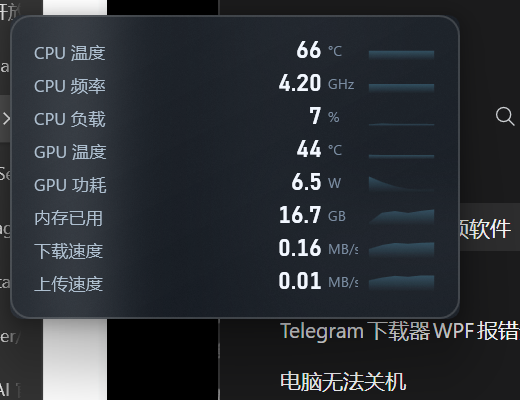
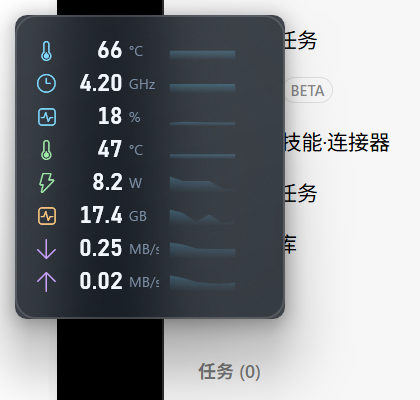
feat: 文字标签改为图标，面板宽度收窄 (v1.2.0)
- 新增 Sensors/Icons.cs 与 MetricSpec.Icon：按子分组/键映射 Segoe Fluent Icons 字形
- 新增 Ui/GroupPalette.cs：按分组（CPU/显卡/内存/网络/主板/硬盘/风扇）配色
- 面板两个模板用图标代替文字标签，按分组着色，行内 ToolTip 显示完整名称
- 设置面板参数列表同步显示彩色图标
- 默认窗口宽度 300 → 180，竖排最小宽度 236 → 148，横排间距收紧
- AppSettings 新增 IconsApplied：老配置升级后只收窄一次
- docs 截图、README、版本号更新到 1.2.0

diff --git a/src/Ui/MainWindow.xaml b/src/Ui/MainWindow.xaml
@@ -19,11 +19,13 @@
 
     <Window.Resources>
         <sys:Double x:Key="LabelSize">11.5</sys:Double>
+        <sys:Double x:Key="IconSize">13</sys:Double>
+        <sys:Double x:Key="IconColumnWidth">17</sys:Double>
         <sys:Double x:Key="ValueSize">16</sys:Double>
         <sys:Double x:Key="UnitSize">9.5</sys:Double>
         <sys:Double x:Key="FooterSize">9.5</sys:Double>
         <sys:Double x:Key="RowHeight">22</sys:Double>
-        <GridLength x:Key="ValueColumnWidth">48</GridLength>
+        <GridLength x:Key="ValueColumnWidth">40</GridLength>
         <GridLength x:Key="UnitColumnWidth">24</GridLength>
         <sys:Double x:Key="SparkWidth">46</sys:Double>
         <sys:Double x:Key="SparkWidthH">30</sys:Double>
@@ -31,19 +33,22 @@
         <BooleanToVisibilityConverter x:Key="BoolToVis" />
 
         <DataTemplate x:Key="MetricRowTemplate" DataType="{x:Type ui:MetricRow}">
-            <Grid Height="{DynamicResource RowHeight}">
+            <Grid Height="{DynamicResource RowHeight}" ToolTip="{Binding Tooltip}">
                 <Grid.ColumnDefinitions>
-                    <ColumnDefinition Width="*" />
+                    <ColumnDefinition Width="Auto" />
                     <ColumnDefinition Width="{DynamicResource ValueColumnWidth}" />
                     <ColumnDefinition Width="{DynamicResource UnitColumnWidth}" />
                     <ColumnDefinition Width="Auto" />
+                    <ColumnDefinition Width="*" />
                 </Grid.ColumnDefinitions>
 
-                <TextBlock Text="{Binding Label}"
-                           FontSize="{DynamicResource LabelSize}"
-                           Foreground="{DynamicResource TextSecondaryBrush}"
-                           VerticalAlignment="Center" TextTrimming="CharacterEllipsis"
-                           Margin="0,0,10,0" />
+                <!-- 图标代替文字标签：省横向空间 -->
+                <TextBlock Text="{Binding Icon}"
+                           FontFamily="{DynamicResource IconFont}"
+                           FontSize="{DynamicResource IconSize}"
+                           Foreground="{Binding IconBrush}"
+                           VerticalAlignment="Center" HorizontalAlignment="Center"
+                           Width="{DynamicResource IconColumnWidth}" />
 
                 <TextBlock Grid.Column="1"
                            Text="{Binding ValueText}"
@@ -72,13 +77,15 @@
             </Grid>
         </DataTemplate>
 
-        <!-- 横向排列用的紧凑模板：标签 值 单位 挤在一行 -->
+        <!-- 横向排列用的紧凑模板：图标 值 单位 挤在一行 -->
         <DataTemplate x:Key="MetricRowTemplateH" DataType="{x:Type ui:MetricRow}">
-            <StackPanel Orientation="Horizontal" Height="{DynamicResource RowHeight}" Margin="0,0,14,0">
-                <TextBlock Text="{Binding Label}"
-                           FontSize="{DynamicResource LabelSize}"
-                           Foreground="{DynamicResource TextSecondaryBrush}"
-                           VerticalAlignment="Center" Margin="0,0,6,1" />
+            <StackPanel Orientation="Horizontal" Height="{DynamicResource RowHeight}" Margin="0,0,12,0"
+                        ToolTip="{Binding Tooltip}">
+                <TextBlock Text="{Binding Icon}"
+                           FontFamily="{DynamicResource IconFont}"
+                           FontSize="{DynamicResource IconSize}"
+                           Foreground="{Binding IconBrush}"
+                           VerticalAlignment="Center" Margin="0,0,5,0" />
                 <TextBlock Text="{Binding ValueText}"
                            FontFamily="{DynamicResource NumFont}"
                            FontSize="{DynamicResource ValueSize}"

diff --git a/src/Ui/SettingsWindow.xaml b/src/Ui/SettingsWindow.xaml
@@ -136,11 +136,17 @@
                                 <Grid>
                                     <Grid.ColumnDefinitions>
                                         <ColumnDefinition Width="Auto" />
+                                        <ColumnDefinition Width="Auto" />
                                         <ColumnDefinition Width="*" />
                                     </Grid.ColumnDefinitions>
                                     <CheckBox IsChecked="{Binding IsSelected, Mode=TwoWay, UpdateSourceTrigger=PropertyChanged}"
                                               Style="{StaticResource GlassCheckBox}" VerticalAlignment="Center" />
-                                    <StackPanel Grid.Column="1" Margin="8,0,0,0" VerticalAlignment="Center">
+                                    <TextBlock Grid.Column="1" Text="{Binding Icon}"
+                                               FontFamily="{DynamicResource IconFont}" FontSize="12.5"
+                                               Foreground="{Binding IconBrush}"
+                                               Width="18" TextAlignment="Center"
+                                               VerticalAlignment="Center" Margin="8,0,0,0" />
+                                    <StackPanel Grid.Column="2" Margin="6,0,0,0" VerticalAlignment="Center">
                                         <TextBlock Text="{Binding Label}" FontSize="12.2"
                                                    Foreground="{DynamicResource TextPrimaryBrush}"
                                                    TextTrimming="CharacterEllipsis" />

diff --git a/src/Ui/Styles.xaml b/src/Ui/Styles.xaml
@@ -14,7 +14,7 @@
 
     <FontFamily x:Key="UiFont">Segoe UI Variable Text, Microsoft YaHei UI, Segoe UI</FontFamily>
     <FontFamily x:Key="NumFont">Bahnschrift, Segoe UI Variable Display, Segoe UI</FontFamily>
-    <FontFamily x:Key="IconFont">Segoe MDL2 Assets</FontFamily>
+    <FontFamily x:Key="IconFont">Segoe Fluent Icons, Segoe MDL2 Assets</FontFamily>
 
     <!-- ============================ 图标按钮 ============================ -->
     <Style x:Key="IconButton" TargetType="Button">

diff --git a/src/Sensors/Icons.cs b/src/Sensors/Icons.cs
@@ -1,0 +1,41 @@
+namespace CpuGlassMonitor.Sensors;
+
+/// <summary>
+/// 面板图标字形表（Segoe Fluent Icons，Win10 上自动回退到 Segoe MDL2 Assets，两者码位一致）。
+/// 用图标代替中文标签，既省横向空间也更像仪表盘。
+/// </summary>
+public static class Icons
+{
+    /// <summary>温度：温度计。</summary>
+    public const string Temperature = "\uE9CA";
+
+    /// <summary>频率：时钟表盘（时钟频率）。</summary>
+    public const string Clock = "\uED5A";
+
+    /// <summary>占用率：折线图。</summary>
+    public const string Load = "\uE9D9";
+
+    /// <summary>功耗：闪电。</summary>
+    public const string Power = "\uE945";
+
+    /// <summary>电压：滑杆。</summary>
+    public const string Voltage = "\uE9E9";
+
+    /// <summary>风扇转速：循环箭头。</summary>
+    public const string Fan = "\uE9F3";
+
+    /// <summary>容量 / 吞吐量：内存条。</summary>
+    public const string Capacity = "\uE8F1";
+
+    /// <summary>带宽 / 吞吐：折线。</summary>
+    public const string Throughput = "\uE9D2";
+
+    /// <summary>下载：向下箭头。</summary>
+    public const string Download = "\uE74B";
+
+    /// <summary>上传：向上箭头。</summary>
+    public const string Upload = "\uE74A";
+
+    /// <summary>兜底图标。</summary>
+    public const string Default = Load;
+}

diff --git a/src/Ui/MainWindow.xaml.cs b/src/Ui/MainWindow.xaml.cs
@@ -184,11 +184,11 @@ public partial class MainWindow : Window
         else
         {
             SizeToContent = SizeToContent.Height;
-            MinWidth = 236;
+            MinWidth = 148;
             MaxWidth = 640;
-            CardInner.Margin = new Thickness(15, 11, 14, 12);
+            CardInner.Margin = new Thickness(13, 11, 12, 12);
             HintText.MaxWidth = double.PositiveInfinity;
-            if (_settings.WindowWidth >= 236 && _settings.WindowWidth <= 640)
+            if (_settings.WindowWidth >= 148 && _settings.WindowWidth <= 640)
             {
                 Width = _settings.WindowWidth;
             }
@@ -221,7 +221,9 @@ public partial class MainWindow : Window
         Resources["UnitSize"] = 9.5 * s;
         Resources["FooterSize"] = 9.5 * s;
         Resources["RowHeight"] = 22.0 * s;
-        Resources["ValueColumnWidth"] = new GridLength(48.0 * s);
+        Resources["IconSize"] = 13.0 * s;
+        Resources["IconColumnWidth"] = 17.0 * s;
+        Resources["ValueColumnWidth"] = new GridLength(40.0 * s);
         Resources["UnitColumnWidth"] = new GridLength(24.0 * s);
         Resources["SparkWidth"] = _settings.ShowSparkline ? 46.0 * s : 0.0;
         Resources["SparkWidthH"] = _settings.ShowSparkline ? 30.0 * s : 0.0;

diff --git a/src/Sensors/MetricSpec.cs b/src/Sensors/MetricSpec.cs
@@ -16,6 +16,32 @@ public sealed class MetricSpec
 
     public string Unit { get; init; } = "";
 
+    /// <summary>面板上代替文字标签显示的图标字形（Segoe Fluent Icons / Segoe MDL2 Assets）。</summary>
+    public string Icon => IconFor(Key, SubGroup);
+
+    private static string IconFor(string key, string subGroup)
+    {
+        if (key == "agg.net.down") return Icons.Download;
+        if (key == "agg.net.up") return Icons.Upload;
+
+        return subGroup switch
+        {
+            "温度" => Icons.Temperature,
+            "频率" => Icons.Clock,
+            "负载" => Icons.Load,
+            "占用" => Icons.Load,
+            "功耗" => Icons.Power,
+            "能耗" => Icons.Power,
+            "电压" => Icons.Voltage,
+            "风扇" => Icons.Fan,
+            "容量" => Icons.Capacity,
+            "数据" => Icons.Capacity,
+            "带宽" => Icons.Throughput,
+            "速度" => Icons.Throughput,
+            _ => Icons.Default
+        };
+    }
+
     public double Scale { get; init; } = 1.0;
 
     public int Digits { get; init; }

diff --git a/src/Ui/MetricRow.cs b/src/Ui/MetricRow.cs
@@ -22,7 +22,9 @@ public sealed class MetricRow : INotifyPropertyChanged
         PrimaryBrush = primary;
         WarnBrush = warn;
         CritBrush = crit;
+        IconBrush = GroupPalette.For(spec.Group);
     }
+
 
     public event PropertyChangedEventHandler? PropertyChanged;
 
@@ -33,6 +35,18 @@ public sealed class MetricRow : INotifyPropertyChanged
     public string Label => Spec.Label;
 
     public string Unit => Spec.Unit;
+
+    /// <summary>代替文字标签的图标字形。</summary>
+    public string Icon => Spec.Icon;
+
+    /// <summary>按分组着色的图标笔刷（CPU 青、显卡绿、内存琥珀、网络紫）。</summary>
+    public Brush IconBrush { get; }
+
+    /// <summary>鼠标悬停时显示完整名称（图标化以后靠它认指标）。</summary>
+    public string Tooltip =>
+        string.IsNullOrEmpty(Spec.Unit)
+            ? $"{Spec.Label} · {Spec.SubGroup}"
+            : $"{Spec.Label} · {Spec.SubGroup} · {Spec.Unit}";
 
     public Brush PrimaryBrush { get; }
 

diff --git a/src/Ui/GroupPalette.cs b/src/Ui/GroupPalette.cs
@@ -1,0 +1,28 @@
+using System.Windows.Media;
+
+namespace CpuGlassMonitor.Ui;
+
+/// <summary>
+/// 分组配色。面板标签改成图标以后，同形状的图标（比如两个温度计）靠颜色区分钟是 CPU 还是显卡。
+/// </summary>
+public static class GroupPalette
+{
+    public static Brush For(string group)
+    {
+        Color color = group switch
+        {
+            "CPU" => Color.FromRgb(0x7F, 0xD9, 0xFF),
+            "显卡" => Color.FromRgb(0x9F, 0xE8, 0xA8),
+            "内存" => Color.FromRgb(0xFF, 0xC9, 0x80),
+            "网络" => Color.FromRgb(0xC9, 0xA2, 0xFF),
+            "主板" => Color.FromRgb(0xFF, 0xB4, 0xA2),
+            "硬盘" => Color.FromRgb(0xA8, 0xD8, 0xFF),
+            "风扇" => Color.FromRgb(0xC7, 0xE0, 0xF0),
+            _ => Color.FromRgb(0xAE, 0xBF, 0xCF)
+        };
+
+        var brush = new SolidColorBrush(color);
+        brush.Freeze();
+        return brush;
+    }
+}

diff --git a/src/Ui/MetricOption.cs b/src/Ui/MetricOption.cs
@@ -42,6 +42,7 @@ public sealed class MetricOption : INotifyPropertyChanged
 
         bool aggregate = spec.Key.StartsWith("agg.", StringComparison.Ordinal);
         Order = groupRank * 1_000_000 + subRank * 10_000 + (aggregate ? 0 : 5_000) + insertionIndex;
+        IconBrush = GroupPalette.For(spec.Group);
     }
 
     public event PropertyChangedEventHandler? PropertyChanged;
@@ -53,6 +54,12 @@ public sealed class MetricOption : INotifyPropertyChanged
     public string Label { get; }
 
     public string Detail { get; }
+
+    /// <summary>与面板一致的图标字形。</summary>
+    public string Icon => Spec.Icon;
+
+    /// <summary>与面板一致的图标颜色。</summary>
+    public System.Windows.Media.Brush IconBrush { get; private set; } = System.Windows.Media.Brushes.Gray;
 
     public string GroupTitle { get; }
 

diff --git a/src/App.xaml.cs b/src/App.xaml.cs
@@ -182,6 +182,15 @@ public partial class App : Application
                     SettingsStore.Save(Settings);
                     if (added) Shell?.ApplySettings(Settings);
                 }
+
+                if (!Settings.IconsApplied)
+                {
+                    // 1.2 用图标代替文字标签，面板可以窄很多：把老配置里偏宽的宽度收一次
+                    if (Settings.WindowWidth > 200) Settings.WindowWidth = 180;
+                    Settings.IconsApplied = true;
+                    SettingsStore.Save(Settings);
+                    Shell?.ApplySettings(Settings);
+                }
             }
             catch (Exception ex)
             {

diff --git a/src/Core/AppSettings.cs b/src/Core/AppSettings.cs
@@ -19,6 +19,9 @@ public sealed class AppSettings
     /// </summary>
     public bool NetDefaultsApplied { get; set; }
 
+    /// <summary>1.2 图标化标签后收窄过窗口宽度（只做一次）。</summary>
+    public bool IconsApplied { get; set; }
+
     /// <summary>亚克力底色浓度 0..1（越大越不透明）。</summary>
     public double TintStrength { get; set; } = 0.55;
 
@@ -63,7 +66,7 @@ public sealed class AppSettings
 
     public double? WindowTop { get; set; }
 
-    public double WindowWidth { get; set; } = 300;
+    public double WindowWidth { get; set; } = 180;
 
     public bool WithWindows { get; set; }
 

diff --git a/README.md b/README.md
@@ -38,6 +38,11 @@
 | 托盘菜单「退出」 | 完全退出程序 |
 
 > 面板上**没有标题栏、齿轮和关闭按钮**，只有数据本身——这样能压到最窄，直接当 HUD 用。
+
+每行左侧是**图标而不是文字标签**（温度计 = 温度、钟表 = 频率、折线 = 负载、闪电 = 功耗、内存条 = 容量、
+下/上箭头 = 下载/上传），并按分组着色：CPU 青、显卡绿、内存琥珀、网络紫、主板橙。
+同一个形状分不清时靠颜色区分钟是 CPU 还是显卡；鼠标悬停会显示完整名称（如「CPU 温度 · 温度 · °C」）。
+默认面板宽度因此从 300 缩到 180。
 > 设置靠双击面板（或右键菜单「显示设置…」、托盘菜单）；要关掉程序走托盘「退出」。
 
 ## 设置面板
@@ -121,6 +126,15 @@ CpuGlassMonitor/
 ```
 
 ## 更新日志
+
+### v1.2.0
+
+- **文字标签改为图标**：每行左侧用 Segoe Fluent Icons 字形代替中文名（温度计/钟表/折线/闪电/滑杆/
+  内存条/上下箭头），按分组着色区分 CPU、显卡、内存、网络、主板；鼠标悬停显示完整名称。
+  单行宽度因此省了约 40%，默认面板宽度从 300 收到 180。
+- 设置面板的参数列表也带上了同样的彩色图标，勾选时更容易对上号。
+- 横排模式下 8 个参数只占约 890 DIP，以前要 1300 多。
+- 老配置升级后自动把面板宽度收窄一次（只做一次，之后你自己拖宽就不会被改回去）。
 
 ### v1.1.0
 
